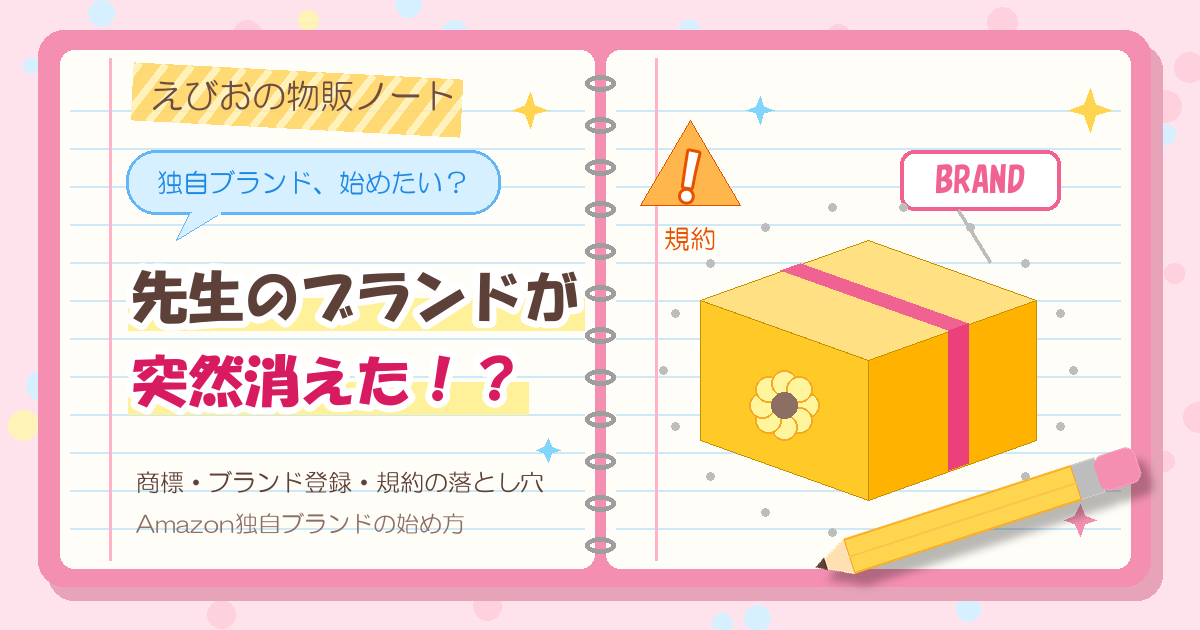
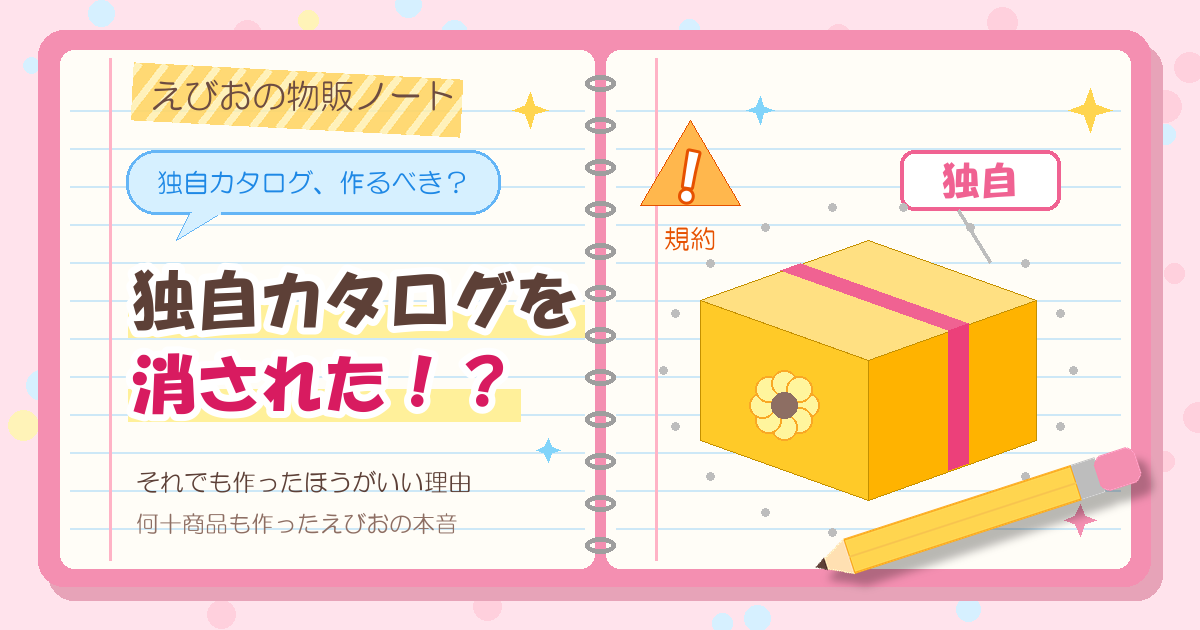
独自カタログの記事を、えびおの話をもとに書き直し（画像も）

diff --git a/posts/2026-10-21-dokuji-brand.html b/posts/2026-10-21-dokuji-brand.html
@@ -1,237 +1,143 @@
 <!--
 タイトル案：
-1. 先生のブランドが突然消えた！？Amazon独自ブランドの始め方と規約の落とし穴
-2. 商標だけで7万円以上！せどりの次に挑んだAmazon独自ブランドの話
-3. せどりの次は独自ブランド！えびおが文具セットを作ってわかったこと
+1. Amazon独自カタログを消された！？それでも作ったほうがいい理由
+2. Amazonの独自カタログは作るべき？何十商品も作ったえびおの本音
+3. 値下げ合戦はもうイヤ！せどりの次はAmazon独自カタログがおすすめ
 カテゴリー：せどり（4）
 スラッグ：dokuji-brand
 -->
 
 <!-- wp:html -->
-<div class="speech-wrap sb-id-1 sbs-stn sbp-l sbis-sb cf"><div class="speech-person"><figure class="speech-icon"><img class="speech-icon-image" src="https://iseebio.jp/wp-content/uploads/2026/10/ebio-yoroshiku.png" alt="えびお（よろしくお願いします！）" width="160" height="160" /></figure><div class="speech-name">えびお</div></div><div class="speech-balloon"><p>こんにちは！えびおです。今日は「独自ブランド」の話をします。</p></div></div>
+<div class="speech-wrap sb-id-1 sbs-stn sbp-l sbis-sb cf"><div class="speech-person"><figure class="speech-icon"><img class="speech-icon-image" src="https://iseebio.jp/wp-content/uploads/2026/10/ebio-yoroshiku.png" alt="えびお（よろしくお願いします！）" width="160" height="160" /></figure><div class="speech-name">えびお</div></div><div class="speech-balloon"><p>こんにちは！えびおです。今日はAmazonの「独自カタログ」の話です。</p></div></div>
 <!-- /wp:html -->
 
 <!-- wp:paragraph -->
-<p>せどりは、ほかの人と同じ商品を売る商売です。だから、どうしても値下げ合戦になりやすいですよね。</p>
+<p>「独自カタログって、作ったほうがいいんですか？」と聞かれることがあります。</p>
 <!-- /wp:paragraph -->
 
 <!-- wp:paragraph -->
-<p>そこでえびおは、物販のスクールに入って、Amazonで「自分のブランドの商品」を作ることに挑戦しました。</p>
+<p>「カタログを消された」「Amazonから指摘が来た」という話を聞いて、こわくなっている人も多いと思います。</p>
 <!-- /wp:paragraph -->
 
 <!-- wp:paragraph -->
-<p>この記事では、独自ブランドの始め方と、かかったお金、そして一番大事な「規約の落とし穴」をまとめます。</p>
-<!-- /wp:paragraph -->
-
-<!-- wp:heading -->
-<h2 class="wp-block-heading">独自ブランドってなに？せどりとのちがい</h2>
-<!-- /wp:heading -->
-
-<!-- wp:paragraph -->
-<p>独自ブランドとは、自分でブランド名を決めて、自分だけの商品ページ（Amazonではカタログといいます）を作って売ることです。</p>
-<!-- /wp:paragraph -->
-
-<!-- wp:paragraph -->
-<p>Amazonでの売り方は、ざっくり分けると次の5段階があります。</p>
-<!-- /wp:paragraph -->
-
-<!-- wp:list -->
-<ul class="wp-block-list"><!-- wp:list-item -->
-<li>① 相乗り：今ある商品ページに出品する（ふつうのせどり）</li>
-<!-- /wp:list-item -->
-
-<!-- wp:list-item -->
-<li>② ノーブランドのセット品：いくつかの商品を組み合わせて、新しいページを作る</li>
-<!-- /wp:list-item -->
-
-<!-- wp:list-item -->
-<li>③ 簡易OEM：今ある商品に、自分のブランドの箱やラベルをつけて売る（メーカーの同意が必要）</li>
-<!-- /wp:list-item -->
-
-<!-- wp:list-item -->
-<li>④ OEM：工場に頼んで、自分のブランドの商品を作ってもらう</li>
-<!-- /wp:list-item -->
-
-<!-- wp:list-item -->
-<li>⑤ 完全オリジナル：商品そのものを一から作る</li>
-<!-- /wp:list-item --></ul>
-<!-- /wp:list -->
-
-<!-- wp:paragraph -->
-<p>ブランドを育てるなら、③より上を目指します。<mark style="background-color:#fff09a" class="has-inline-color">自分だけのページなので、ほかの人と値下げ合戦になりにくい</mark>のが一番のよいところです。</p>
+<p>先に答えを言うと、えびおは<mark style="background-color:#fff09a" class="has-inline-color">「やったほうがいい」</mark>と思っています。何十商品も作ってきた経験から、その理由と気をつけることをお話しします。</p>
 <!-- /wp:paragraph -->
 
 <!-- wp:heading -->
-<h2 class="wp-block-heading">えびおが作った独自ブランドの文具セット</h2>
+<h2 class="wp-block-heading">独自カタログってなに？相乗りとのちがい</h2>
 <!-- /wp:heading -->
 
 <!-- wp:paragraph -->
-<p>スクールでは、はじめに「どの方向で独自カタログを作るか」を決めるアンケートがありました。</p>
+<p>Amazonでは、商品ごとに1つの商品ページがあります。このページのことを「カタログ」といいます。</p>
 <!-- /wp:paragraph -->
 
 <!-- wp:paragraph -->
-<p>えびおが選んだのは「自社ブランド」です。理由は、自社ブランドを取っておけば、将来きっと有利になると考えたからです。</p>
+<p>ふつうのせどりは、すでにあるカタログに出品します。これを「相乗り」といいます。同じページに何人もの出品者がいて、カート（「カートに入れる」ボタンで買われる権利）を取り合います。</p>
 <!-- /wp:paragraph -->
 
 <!-- wp:paragraph -->
-<p>そこから、売れている商品を調べて、企画書を何枚も書きました。猫の水分補給のおためしセット、ベビー用品のセットなど、いろいろ考えました。</p>
+<p>独自カタログは、自分で新しくカタログを作って売る方法です。たとえば、いくつかの商品を組み合わせたセット品や、自分のブランドの商品などです。</p>
+<!-- /wp:paragraph -->
+
+<!-- wp:heading -->
+<h2 class="wp-block-heading">えびおが「やったほうがいい」と思う理由</h2>
+<!-- /wp:heading -->
+
+<!-- wp:paragraph -->
+<p>一番の理由は、<mark style="background-color:#fff09a;color:#c00000" class="has-inline-color"><strong>安定して売れる</strong></mark>ことです。実際に作ってみて、独自カタログはやっぱり売れるなと感じています。</p>
+<!-- /wp:paragraph -->
+
+<!-- wp:paragraph -->
+<p>相乗りだと、ライバルが値下げしてきたら、こちらも下げるかどうか悩みますよね。カートの取り合いも気になります。</p>
+<!-- /wp:paragraph -->
+
+<!-- wp:paragraph -->
+<p>独自カタログなら、そういうことを気にしなくていいんです。自分のペースで値段を決めて売れるので、とてもやりやすいです。</p>
 <!-- /wp:paragraph -->
 
 <!-- wp:html -->
-<div class="speech-wrap sb-id-1 sbs-stn sbp-l sbis-sb cf"><div class="speech-person"><figure class="speech-icon"><img class="speech-icon-image" src="https://iseebio.jp/wp-content/uploads/2026/10/ebio-zenshuuchuu.png" alt="えびお（全集中！）" width="160" height="160" /></figure><div class="speech-name">えびお</div></div><div class="speech-balloon"><p>企画書には、先生が赤ペンのようにコメントをくれました。「残念ながら、同じようなセットをもう売っているお店があります」と言われた案もあります（笑）</p></div></div>
+<div class="speech-wrap sb-id-1 sbs-stn sbp-l sbis-sb cf"><div class="speech-person"><figure class="speech-icon"><img class="speech-icon-image" src="https://iseebio.jp/wp-content/uploads/2026/10/ebio-iine.png" alt="えびお（いいね！）" width="160" height="160" /></figure><div class="speech-name">えびお</div></div><div class="speech-balloon"><p>値下げ合戦に疲れている人には、本当におすすめです。</p></div></div>
 <!-- /wp:html -->
 
 <!-- wp:paragraph -->
-<p>最終的に形にしたのが、「小学1年生スタート文具セット」です。ふでばこ・ノート・鉛筆・消しゴム・定規・鉛筆キャップを、ひとつの箱にまとめました。</p>
+<p>えびおの知り合いに聞いてみても、独自カタログをやっている人は、売上がすごく上がっています。</p>
 <!-- /wp:paragraph -->
 
 <!-- wp:paragraph -->
-<p>箱には、えびおのブランド名を印刷しています。<mark style="background-color:rgba(0, 0, 0, 0);color:#c00000" class="has-inline-color"><strong>【要確認：ブランド名「ひまわりCompany」を記事に出してよいか】</strong></mark></p>
+<p>「自分の商品の中で一番売れているのは独自カタログ」という人もいます。何千万円も売り上げている人の中にも、同じことを言う人がいます。</p>
 <!-- /wp:paragraph -->
 
 <!-- wp:paragraph -->
-<p><mark style="background-color:rgba(0, 0, 0, 0);color:#c00000" class="has-inline-color"><strong>【要確認：文具セットはもう販売しているか・売れ行きはどうか】</strong></mark></p>
+<p>うまく作れば、独自カタログは物販の<mark style="background-color:#fff09a" class="has-inline-color">「柱」になる破壊力</mark>があると思います。</p>
 <!-- /wp:paragraph -->
 
 <!-- wp:heading -->
-<h2 class="wp-block-heading">商標登録にかかったお金と時間</h2>
+<h2 class="wp-block-heading">カタログを消された話、実はえびおにもあります</h2>
 <!-- /wp:heading -->
 
 <!-- wp:paragraph -->
-<p>Amazonでブランドとして認めてもらうには、商標（ブランド名を国に登録して、自分だけが使えるようにする権利）が必要です。</p>
-<!-- /wp:paragraph -->
-
-<!-- wp:paragraph -->
-<p>えびおは、特許事務所（弁理士さん）にお願いして、2025年2月10日に特許庁へ出願しました。ブランド名は文字だけの「文字商標」で、区分（どんな商品に使うかの分類）は文房具の1区分です。</p>
-<!-- /wp:paragraph -->
-
-<!-- wp:paragraph -->
-<p>お願いした事務所の料金表では、1区分の費用はこうなっていました。</p>
-<!-- /wp:paragraph -->
-
-<!-- wp:list -->
-<ul class="wp-block-list"><!-- wp:list-item -->
-<li>出願するとき：29,600円（手数料＋特許庁に払う印紙代）</li>
-<!-- /wp:list-item -->
-
-<!-- wp:list-item -->
-<li>登録するとき（5年分）：41,400円</li>
-<!-- /wp:list-item -->
-
-<!-- wp:list-item -->
-<li>登録するとき（10年分）：65,900円</li>
-<!-- /wp:list-item --></ul>
-<!-- /wp:list -->
-
-<!-- wp:paragraph -->
-<p>合計すると、5年分で71,000円、10年分で95,500円です。<mark style="background-color:rgba(0, 0, 0, 0);color:#c00000" class="has-inline-color"><strong>【要確認：料金が今も同じか（2024年6月の料金表）】</strong></mark></p>
+<p>正直に言うと、えびおも何個かは、商標（ブランド名などを守る権利）の関係でカタログを消されたことがあります。Amazonから商標のことで連絡が来たこともあります。</p>
 <!-- /wp:paragraph -->
 
 <!-- wp:html -->
-<div class="speech-wrap sb-id-1 sbs-stn sbp-l sbis-sb cf"><div class="speech-person"><figure class="speech-icon"><img class="speech-icon-image" src="https://iseebio.jp/wp-content/uploads/2026/10/ebio-bikkuri.png" alt="えびお（びっくり）" width="160" height="160" /></figure><div class="speech-name">えびお</div></div><div class="speech-balloon"><p>区分を増やすと、その分どんどん高くなります。まずは1区分から始めるのがおすすめです。</p></div></div>
+<div class="speech-wrap sb-id-1 sbs-stn sbp-l sbis-sb cf"><div class="speech-person"><figure class="speech-icon"><img class="speech-icon-image" src="https://iseebio.jp/wp-content/uploads/2026/10/ebio-shonbori.png" alt="えびお（しょんぼり）" width="160" height="160" /></figure><div class="speech-name">えびお</div></div><div class="speech-balloon"><p>せっかく作ったカタログが消えると、やっぱりしょんぼりします。</p></div></div>
 <!-- /wp:html -->
 
 <!-- wp:paragraph -->
-<p>時間もかかります。特許庁から最初の結果が来るまで、ふつうは4〜9か月くらいかかると説明を受けました。<mark style="background-color:rgba(0, 0, 0, 0);color:#c00000" class="has-inline-color"><strong>【要確認：えびおの商標は登録まで何か月かかったか】</strong></mark></p>
+<p>ただ、何十商品も作っている中で、その数はそんなに多くありません。</p>
 <!-- /wp:paragraph -->
 
 <!-- wp:paragraph -->
-<p>ただ、うれしいことに、Amazonのブランド登録は商標を「出願中」の段階でも申請できます。<mark style="background-color:rgba(0, 0, 0, 0);color:#c00000" class="has-inline-color"><strong>【要確認：今も出願中で申請できるか】</strong></mark></p>
-<!-- /wp:paragraph -->
-
-<!-- wp:heading -->
-<h2 class="wp-block-heading">Amazonのブランド登録でできること</h2>
-<!-- /wp:heading -->
-
-<!-- wp:paragraph -->
-<p>ブランド登録（Amazonブランドレジストリ）が通ると、ふつうの出品者には使えない機能が使えるようになります。</p>
-<!-- /wp:paragraph -->
-
-<!-- wp:list -->
-<ul class="wp-block-list"><!-- wp:list-item -->
-<li>A+（エープラス）：商品ページに、画像や比べる表を入れて見やすくできる</li>
-<!-- /wp:list-item -->
-
-<!-- wp:list-item -->
-<li>ブランドストア：自分のブランドだけのお店ページが作れる</li>
-<!-- /wp:list-item -->
-
-<!-- wp:list-item -->
-<li>スポンサーブランド広告：検索結果の上のほうに出る広告や、動画の広告が使える</li>
-<!-- /wp:list-item -->
-
-<!-- wp:list-item -->
-<li>ブランド分析：どんな言葉で検索されているかなど、くわしいデータが見られる</li>
-<!-- /wp:list-item -->
-
-<!-- wp:list-item -->
-<li>ブランドの保護：にせものや、まねした出品を消してもらいやすくなる</li>
-<!-- /wp:list-item --></ul>
-<!-- /wp:list -->
-
-<!-- wp:paragraph -->
-<p>相乗りやノーブランドでは、A+は使えません。<mark style="background-color:#fff09a" class="has-inline-color">これだけでも、ライバルとの大きな差になります。</mark></p>
+<p>それでアカウントが止まったり、大きな問題になったりしたことは一度もありません。<mark style="background-color:#fff09a" class="has-inline-color">カタログが消えたぐらいで済んでいます。</mark></p>
 <!-- /wp:paragraph -->
 
 <!-- wp:paragraph -->
-<p>ブランド登録の審査で見られるのは、主に商品の写真です。ブランド名が、商品やパッケージにしっかり印刷されているかが大事です。</p>
+<p>「カタログを消された」「Amazonから指摘が来た」という話は、えびおもよく耳にします。でも話を聞いてみると、<mark style="background-color:rgba(0, 0, 0, 0);color:#c00000" class="has-inline-color"><strong>ルールをちゃんと守っていなかった</strong></mark>ことが原因、というケースが多いんです。</p>
 <!-- /wp:paragraph -->
 
 <!-- wp:paragraph -->
-<p>シールを貼っただけ、100円ショップの物をそのまま入れただけ、のような簡単すぎる商品は、通らないことがあるそうです。</p>
-<!-- /wp:paragraph -->
-
-<!-- wp:heading -->
-<h2 class="wp-block-heading">先生のブランドが突然消えた！規約の落とし穴</h2>
-<!-- /wp:heading -->
-
-<!-- wp:paragraph -->
-<p>ここからが、一番伝えたい話です。</p>
+<p>もうひとつ多いのが、もともと「うるさいメーカー」の商品を使ってしまうケースです。</p>
 <!-- /wp:paragraph -->
 
 <!-- wp:paragraph -->
-<p>2026年3月、えびおが教わった先生のお店で、自社ブランドがAmazonから突然消されてしまいました。5月には、ほかのブランドもまとめて消されたそうです。</p>
+<p>独自カタログでなくても、厳しいメーカーの商品を扱えば、指摘が来るのは当然ですよね。少し考えれば分かることを、独自カタログでやってしまうんです。</p>
 <!-- /wp:paragraph -->
 
 <!-- wp:html -->
-<div class="speech-wrap sb-id-1 sbs-stn sbp-l sbis-sb cf"><div class="speech-person"><figure class="speech-icon"><img class="speech-icon-image" src="https://iseebio.jp/wp-content/uploads/2026/10/ebio-e.png" alt="えびお（えっ!?）" width="160" height="160" /></figure><div class="speech-name">えびお</div></div><div class="speech-balloon"><p>教える側のプロでも、こんなことが起きるんです。</p></div></div>
+<div class="speech-wrap sb-id-1 sbs-stn sbp-l sbis-sb cf"><div class="speech-person"><figure class="speech-icon"><img class="speech-icon-image" src="https://iseebio.jp/wp-content/uploads/2026/10/ebio-magao.png" alt="えびお（真顔）" width="160" height="160" /></figure><div class="speech-name">えびお</div></div><div class="speech-balloon"><p>こういう話を聞くと、最低限の知識が足りていないのかな、と感じます。</p></div></div>
 <!-- /wp:html -->
 
+<!-- wp:heading -->
+<h2 class="wp-block-heading">独自カタログで最低限守りたいこと</h2>
+<!-- /wp:heading -->
+
 <!-- wp:paragraph -->
-<p>きっかけは、商品の説明文や検索キーワードに、ほかの会社の商品名（商標）が入っていたことでした。それで「知的財産権の侵害」と警告を受けたのです。</p>
+<p>独自カタログといっても、何でも簡単に作ればいいわけではありません。大事なのは、Amazonの規約に書いてあるとおりにやることです。</p>
 <!-- /wp:paragraph -->
 
 <!-- wp:paragraph -->
-<p>先生は、商標の登録証や仕入れの請求書を出して申し立てをし、ほかの会社の名前をページから全部消しました。そして5月23日に、ブランドがすべて戻ったそうです。<mark style="background-color:rgba(0, 0, 0, 0);color:#c00000" class="has-inline-color"><strong>【要確認：先生のお店の話を記事に書いてよいか】</strong></mark></p>
-<!-- /wp:paragraph -->
-
-<!-- wp:paragraph -->
-<p>この話から分かった、気をつけることをまとめます。</p>
+<p>えびおが特に気をつけているのは、次のようなことです。</p>
 <!-- /wp:paragraph -->
 
 <!-- wp:list -->
 <ul class="wp-block-list"><!-- wp:list-item -->
-<li>タイトル・画像・説明文・検索キーワードに、ほかの会社の商標を入れない（不安な言葉は消す）</li>
+<li>ほかの会社のブランド名や商標を、タイトル・画像・説明文・検索キーワードに勝手に入れない</li>
 <!-- /wp:list-item -->
 
 <!-- wp:list-item -->
-<li>ブランド名は、商品かパッケージにずっと残る形で表示する</li>
+<li>メーカーがきびしい商品（Amazonでの販売を嫌がるメーカーなど）は、はじめから使わない</li>
 <!-- /wp:list-item -->
 
 <!-- wp:list-item -->
-<li>セット品の新しいページには、新しいJANコード（商品のバーコード番号）を使う。なければ「製品コードの免除」を申請する</li>
+<li>同じ商品を何個か入れただけのような、意味のないセットにしない</li>
 <!-- /wp:list-item -->
 
 <!-- wp:list-item -->
-<li>ほかの会社の商品をセットに入れるときは、そのブランドを隠さない。提携していないのに「コラボ」と書かない</li>
+<li>自分のブランドで出すなら、ブランド名を商品やパッケージにきちんと表示する</li>
 <!-- /wp:list-item -->
 
 <!-- wp:list-item -->
-<li>同じ商品を何個か入れて、おまけを付けただけのセットは規約違反になる</li>
-<!-- /wp:list-item -->
-
-<!-- wp:list-item -->
-<li>仕入れの請求書（メーカー・問屋・お店から）は必ずとっておく</li>
+<li>仕入れの請求書は、必ずとっておく</li>
 <!-- /wp:list-item --></ul>
 <!-- /wp:list -->
 
@@ -239,17 +145,41 @@
 <p><mark style="background-color:rgba(0, 0, 0, 0);color:#c00000" class="has-inline-color"><strong>【要確認：Amazonの規約が今も同じか】</strong></mark></p>
 <!-- /wp:paragraph -->
 
-<!-- wp:paragraph {"style":{"color":{"background":"#fff09a","text":"#c00000"},"typography":{"fontSize":"1.5em"}}} -->
-<p class="has-text-color has-background" style="color:#c00000;background-color:#fff09a;font-size:1.5em"><strong>自分のブランドでも、ほかの会社の名前を使えば消される！</strong></p>
+<!-- wp:paragraph -->
+<p>これから始める人も、もう始めている人も、一度Amazonの規約を読み直してみてください。<mark style="background-color:#fff09a" class="has-inline-color">ルールどおりにやっておけば、ビビることはありません。</mark></p>
+<!-- /wp:paragraph -->
+
+<!-- wp:heading -->
+<h2 class="wp-block-heading">それでも100%安全とは言い切れない</h2>
+<!-- /wp:heading -->
+
+<!-- wp:paragraph -->
+<p>ただし、これだけは正直にお伝えします。ルールを守っていても、絶対に100%安全とは言い切れません。</p>
 <!-- /wp:paragraph -->
 
 <!-- wp:paragraph -->
-<p>前に、Yahoo!ショッピングでブランドの違反によって強制休店になった事例も紹介しました。どのお店でも、<mark style="background-color:#fff09a;color:#c00000" class="has-inline-color"><strong>他人のブランドの言葉には本当に気をつける</strong></mark>ことが大切です。</p>
+<p>最後はAmazonさんの「さじ加減」というところがあるからです。</p>
+<!-- /wp:paragraph -->
+
+<!-- wp:paragraph -->
+<p>こっちのカタログは全然大丈夫なのに、なぜかこのカタログだけ消された、ということもありました。正直よく分からないところもあって、ある意味、運の要素もあります。</p>
 <!-- /wp:paragraph -->
 
 <!-- wp:html -->
-<div class="speech-wrap sb-id-1 sbs-stn sbp-l sbis-sb cf"><div class="speech-person"><figure class="speech-icon"><img class="speech-icon-image" src="https://iseebio.jp/wp-content/uploads/2026/10/ebio-magao.png" alt="えびお（真顔）" width="160" height="160" /></figure><div class="speech-name">えびお</div></div><div class="speech-balloon"><p>独自ブランドは、作るより守るほうが大変かもしれません。ページを作ったら、ときどき見直しましょう。</p></div></div>
+<div class="speech-wrap sb-id-1 sbs-stn sbp-l sbis-sb cf"><div class="speech-person"><figure class="speech-icon"><img class="speech-icon-image" src="https://iseebio.jp/wp-content/uploads/2026/10/ebio-kangaechuu.png" alt="えびお（考え中）" width="160" height="160" /></figure><div class="speech-name">えびお</div></div><div class="speech-balloon"><p>やる以上、多少のリスクはある。そこは分かったうえで始めてほしいです。</p></div></div>
 <!-- /wp:html -->
+
+<!-- wp:paragraph -->
+<p>それでも、ちゃんとルールを守っていれば、少なくともひどいことにはならないと思っています。</p>
+<!-- /wp:paragraph -->
+
+<!-- wp:paragraph {"style":{"color":{"background":"#fff09a","text":"#c00000"},"typography":{"fontSize":"1.5em"}}} -->
+<p class="has-text-color has-background" style="color:#c00000;background-color:#fff09a;font-size:1.5em"><strong>リスクと収益のバランスを見て、自分で決める！</strong></p>
+<!-- /wp:paragraph -->
+
+<!-- wp:paragraph -->
+<p>最終的には自己判断になります。リスクと、得られる売上をくらべて、どちらを取るかですね。</p>
+<!-- /wp:paragraph -->
 
 <!-- wp:heading -->
 <h2 class="wp-block-heading">まとめ</h2>
@@ -257,20 +187,20 @@
 
 <!-- wp:list -->
 <ul class="wp-block-list"><!-- wp:list-item -->
-<li>独自ブランドは、自分だけのページで売れるので値下げ合戦になりにくい</li>
+<li>独自カタログは、値下げ合戦やカートの取り合いがなく、安定して売れる</li>
 <!-- /wp:list-item -->
 
 <!-- wp:list-item -->
-<li>商標は1区分で7万円ほど。出願中でもAmazonのブランド登録は申請できる</li>
+<li>消されるのは、ルール違反やうるさいメーカーの商品が原因のことが多い</li>
 <!-- /wp:list-item -->
 
 <!-- wp:list-item -->
-<li>ほかの会社の商標を、ページのどこにも入れない。これを守らないとブランドごと消される</li>
+<li>100%安全ではないが、規約どおりにやれば物販の柱になる</li>
 <!-- /wp:list-item --></ul>
 <!-- /wp:list -->
 
 <!-- wp:html -->
-<div class="speech-wrap sb-id-1 sbs-stn sbp-l sbis-sb cf"><div class="speech-person"><figure class="speech-icon"><img class="speech-icon-image" src="https://iseebio.jp/wp-content/uploads/2026/10/ebio-ganbarou.png" alt="えびお（頑張ろう！）" width="160" height="160" /></figure><div class="speech-name">えびお</div></div><div class="speech-balloon"><p>せどりに慣れてきたら、次の一歩として独自ブランドも考えてみてください。一緒に頑張りましょう！</p></div></div>
+<div class="speech-wrap sb-id-1 sbs-stn sbp-l sbis-sb cf"><div class="speech-person"><figure class="speech-icon"><img class="speech-icon-image" src="https://iseebio.jp/wp-content/uploads/2026/10/ebio-ganbarou.png" alt="えびお（頑張ろう！）" width="160" height="160" /></figure><div class="speech-name">えびお</div></div><div class="speech-balloon"><p>えびお的には、独自カタログはやったほうがいいと思います。ルールを守って、一緒に頑張りましょう！</p></div></div>
 <!-- /wp:html -->
 
 <!-- wp:paragraph -->
@@ -278,11 +208,11 @@
 <!-- /wp:paragraph -->
 
 <!-- wp:paragraph -->
-<p>あわせて読みたい：<a href="/yahoo-teishi-chuui/">Yahoo!ショッピングのアカウント停止に気をつけろ！ブランド違反で強制休店になった事例</a></p>
+<p>あわせて読みたい：<a href="/amazon-cart-jouken/">Amazonのカートが取れない・消えた！考えられる原因と取得条件まとめ</a></p>
 <!-- /wp:paragraph -->
 
 <!-- wp:paragraph -->
-<p>あわせて読みたい：<a href="/sedori-consul/">せどりのコンサルは受けたほうがいい？料金のインフレと良いコンサルの見分け方</a></p>
+<p>あわせて読みたい：<a href="/yahoo-teishi-chuui/">Yahoo!ショッピングのアカウント停止に気をつけろ！ブランド違反で強制休店になった事例</a></p>
 <!-- /wp:paragraph -->
 
 <!-- wp:html -->
